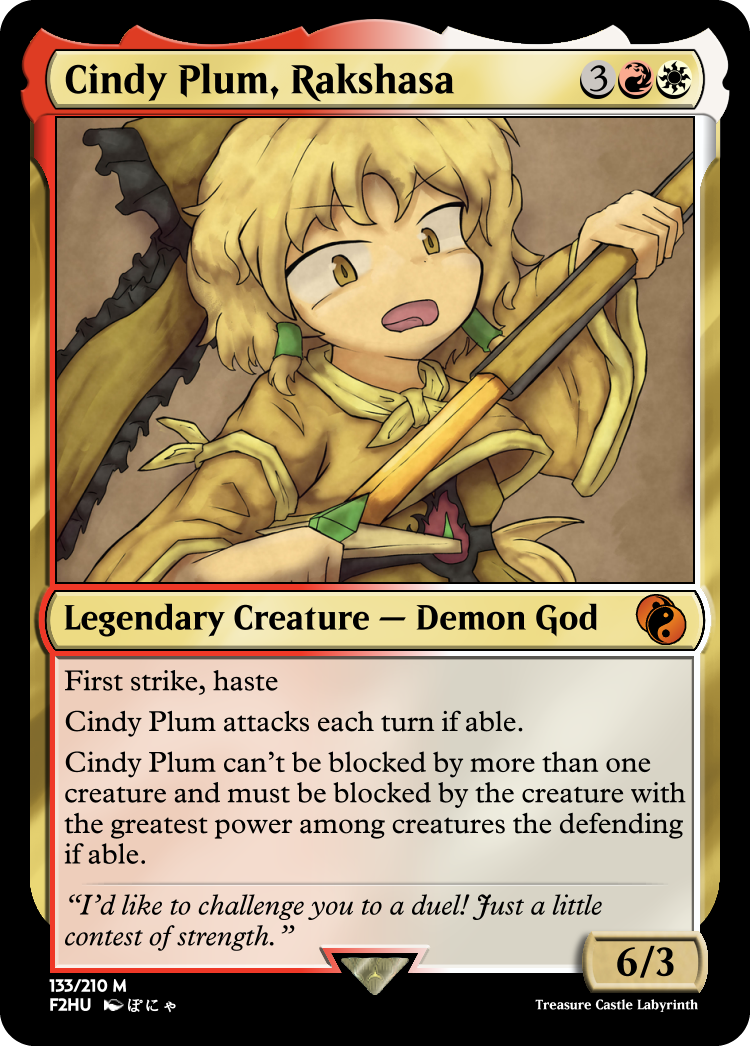
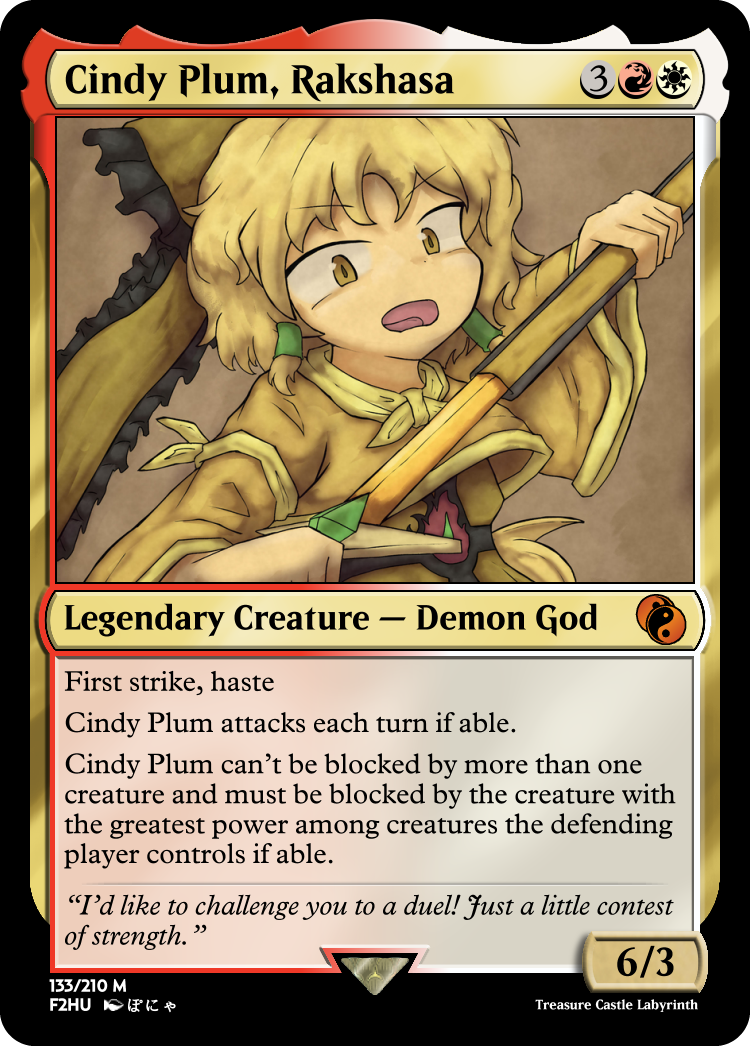
F2HU: frame update and typo fixes

Changed region(s): [[0.092, 0.6424, 0.92, 0.826], [0.092, 0.8566, 0.8893, 0.9178]]

diff --git a/previews/F2HU.html b/previews/F2HU.html
@@ -211,7 +211,7 @@
 				<div class="container"><img alt="/sets/F2HU-files/img/38_Nua, Captain of the Ark.png" id="38_Nua, Captain of the Ark" data-flag="@X" onclick="openSidebar('38_Nua, Captain of the Ark',false)"></div>
 				<div class="container"><img alt="/sets/F2HU-files/img/52_Aelivia Grapeseedling.png" id="52_Aelivia Grapeseedling" data-flag="@X" onclick="openSidebar('52_Aelivia Grapeseedling',false)"></div>
 				<div class="container"><img alt="/sets/F2HU-files/img/78_Amanozako, Crimson Tyrant.png" id="78_Amanozako, Crimson Tyrant" data-flag="@X" onclick="openSidebar('78_Amanozako, Crimson Tyrant',false)"></div>
-				<div class="container"><img alt="/sets/F2HU-files/img/103_An, Kodoma of Tobiume.png" id="103_An, Kodoma of Tobiume" data-flag="@X" onclick="openSidebar('103_An, Kodoma of Tobiume',false)"></div>
+				<div class="container"><img alt="/sets/F2HU-files/img/103_An, Kodama of Tobiume.png" id="103_An, Kodama of Tobiume" data-flag="@X" onclick="openSidebar('103_An, Kodama of Tobiume',false)"></div>
 				<div class="container"><img alt="/sets/F2HU-files/img/11_Jinka, the Yearning Light.png" id="11_Jinka, the Yearning Light" data-flag="@X" onclick="openSidebar('11_Jinka, the Yearning Light',false)"></div>
 				<div class="container"><img alt="/sets/F2HU-files/img/41_Philippa A.T.B. von Hohenheim.png" id="41_Philippa A.T.B. von Hohenheim" data-flag="@X" onclick="openSidebar('41_Philippa A.T.B. von Hohenheim',false)"></div>
 				<div class="container"><img alt="/sets/F2HU-files/img/53_Aimi, Dreaming Heartbroken Girl.png" id="53_Aimi, Dreaming Heartbroken Girl" data-flag="@X" onclick="openSidebar('53_Aimi, Dreaming Heartbroken Girl',false)"></div>
@@ -499,8 +499,8 @@
 				<div class="container"><img alt="/sets/F2HU-files/img/2t_Bird.png" id="2t_Bird" data-flag="@X" onclick="openSidebar('2t_Bird',false)"></div>
 				<div class="container"><img alt="/sets/F2HU-files/img/3t_Faerie.png" id="3t_Faerie" data-flag="@X" onclick="openSidebar('3t_Faerie',false)"></div>
 				<div class="container"><img alt="/sets/F2HU-files/img/4t_Garment.png" id="4t_Garment" data-flag="@X" onclick="openSidebar('4t_Garment',false)"></div>
-				<div class="container"><img alt="/sets/F2HU-files/img/5t_Goat.png" id="5t_Goat" data-flag="@X" onclick="openSidebar('5t_Goat',false)"></div>
-				<div class="container"><img alt="/sets/F2HU-files/img/6t_Human.png" id="6t_Human" data-flag="@X" onclick="openSidebar('6t_Human',false)"></div>
+				<div class="container"><img alt="/sets/F2HU-files/img/5t_Human.png" id="5t_Human" data-flag="@X" onclick="openSidebar('5t_Human',false)"></div>
+				<div class="container"><img alt="/sets/F2HU-files/img/6t_Sheep.png" id="6t_Sheep" data-flag="@X" onclick="openSidebar('6t_Sheep',false)"></div>
 				<div class="container"><img alt="/sets/F2HU-files/img/7t_Spirit.png" id="7t_Spirit" data-flag="@X" onclick="openSidebar('7t_Spirit',false)"></div>
 				<div class="container"><img alt="/sets/F2HU-files/img/8t_Bird.png" id="8t_Bird" data-flag="@X" onclick="openSidebar('8t_Bird',false)"></div>
 				<div class="container"><img alt="/sets/F2HU-files/img/9t_Faerie.png" id="9t_Faerie" data-flag="@X" onclick="openSidebar('9t_Faerie',false)"></div>
